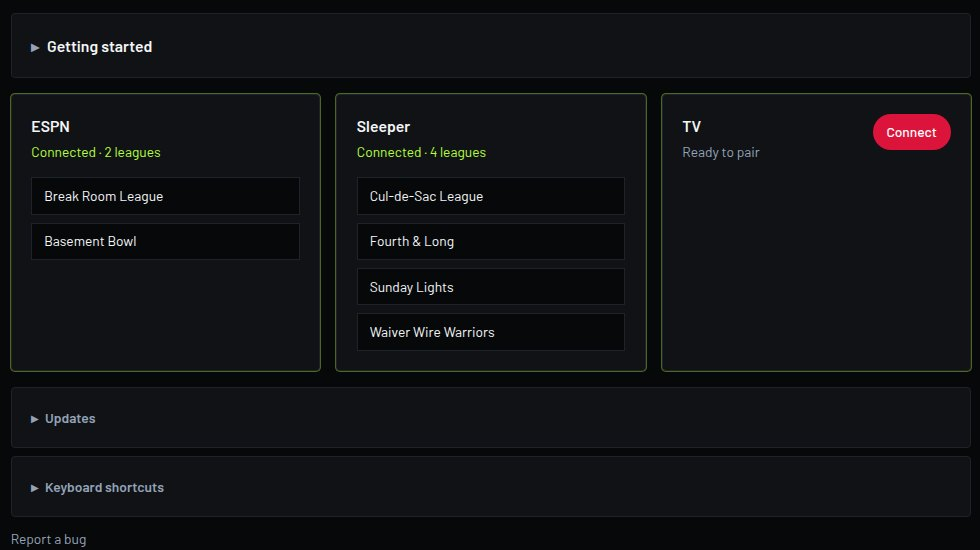
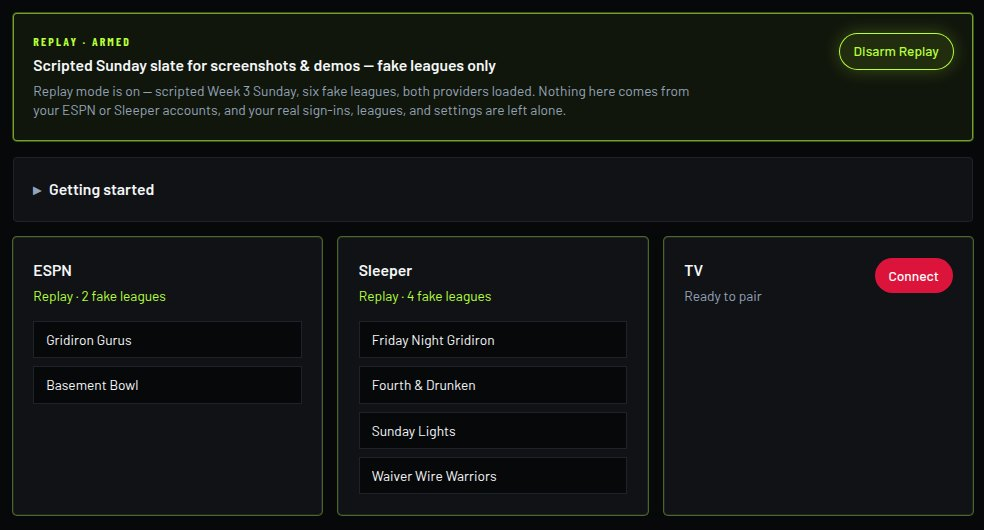
site: re-shoot stills from the pinned Replay frame; demo.ts mirrors it
B/D/E re-captured from Sunday-real Replay (1440x900), C is the frost HUD on
the living-room TV plate, hero A is the dual-surface composite at the same
98.4-91.2 moment. stills.ts uses the spec §2 alts. site/lib/demo.ts carries
HERO_HUD, YOU_STARTERS, THEM_STARTERS, and COMPANION_LEAGUES for the pinned
frame, with a drift test against the Electron fixture. Copy says Replay /
Arm Replay to match Connect.

diff --git a/site/lib/stills.ts b/site/lib/stills.ts
@@ -1,8 +1,11 @@
+import { HERO_HUD } from "@/lib/demo";
+
 /**
- * Product stills. Every screen is a real capture from Demo Sunday
- * (`npm run replay:capture`): fake leagues, fake managers, real NFL player names.
- * The two living-room shots composite those captures onto generated, people-free
- * rooms (scripts/marketing/compose.py). Capture checklist: docs/marketing/stills.md.
+ * Product stills (Designer spec MARKETING_REPLAY_SPEC §2). Every screen is a real
+ * capture of the pinned Replay Sunday (`npm run replay:capture`): fake leagues,
+ * fake managers, real NFL player names. The two living-room shots composite those
+ * captures onto generated, people-free rooms (scripts/marketing/compose.py).
+ * Capture checklist: docs/marketing/stills.md.
  */
 export type ProductStill = {
   src: string;
@@ -12,51 +15,52 @@ export type ProductStill = {
   caption?: string;
 };
 
-const DEMO_CAPTION = "Demo Sunday data · fake leagues";
+const { you, them } = HERO_HUD;
+const REPLAY_CAPTION = "Replay · fake leagues";
 const STAGED_CAPTION = "Real HUD and board captures · staged room · fake leagues";
 
 export const PRODUCT_STILLS = {
   hero: {
     src: "/images/hero-living-room.jpg",
-    alt: "Game-day living room: the Sideline frost HUD on the TV over the broadcast, and the companion Scoreboard on a laptop on the coffee table — Ice Box 86.6, Hash Marks 85.1.",
+    alt: `Sunday living room: frost HUD on the TV over the game and the companion Scoreboard on a laptop — ${you.team} ${you.score}, ${them.team} ${them.score}.`,
     width: 1600,
     height: 900,
     caption: STAGED_CAPTION,
   },
   companion: {
     src: "/images/companion-board.jpg",
-    alt: "Sideline Scoreboard: Ice Box 80.2 vs Hash Marks 82.2 with Est. win% 55–45, both starting lineups with points, a My leagues rail for six leagues, a scoring tape, and the NFL ticker.",
-    width: 1600,
+    alt: "Sideline Scoreboard in Replay: Ice Box vs Hash Marks, starters, scoring tape, and league watchlist.",
+    width: 1440,
     height: 900,
-    caption: DEMO_CAPTION,
+    caption: REPLAY_CAPTION,
   },
   leagues: {
     src: "/images/leagues-board.jpg",
-    alt: "Sideline Leagues view: six Sleeper and ESPN matchups with live scores, lead bars, and top scorers, next to an all-leagues scoring tape.",
-    width: 1600,
+    alt: "Sideline Leagues in Replay: six Sleeper and ESPN matchups with live scores, lead bars, and top scorers beside the all-leagues scoring tape.",
+    width: 1440,
     height: 900,
-    caption: DEMO_CAPTION,
+    caption: REPLAY_CAPTION,
   },
   overlay: {
     src: "/images/frost-hud.jpg",
-    alt: "Frost HUD on a living-room TV during a game: Ice Box 86.6 and starters on the left rail, Hash Marks 85.1 on the right, empty center, lime bias light behind the set.",
+    alt: "Frost HUD over a Sunday living-room TV — Ice Box and Hash Marks on the sidelines.",
     width: 1600,
     height: 900,
     caption: "Real HUD capture · staged room · fake leagues",
   },
   studio: {
     src: "/images/overlay-studio.jpg",
-    alt: "Overlay Studio open beside the Scoreboard: five placement presets, a live HUD preview, and position and size sliders.",
-    width: 1600,
+    alt: "Overlay Studio with five placements and a live HUD preview over game footage.",
+    width: 1440,
     height: 900,
-    caption: DEMO_CAPTION,
+    caption: REPLAY_CAPTION,
   },
   connect: {
     src: "/images/connect-hub.jpg",
-    alt: "Connect hub: ESPN connected with two leagues, Sleeper connected with four, and a TV card ready to pair.",
-    width: 980,
-    height: 550,
-    caption: DEMO_CAPTION,
+    alt: "Connect hub: ESPN, Sleeper, and TV peer cards with Replay armed.",
+    width: 984,
+    height: 530,
+    caption: REPLAY_CAPTION,
   },
 } as const satisfies Record<string, ProductStill>;
 

diff --git a/site/lib/demo.ts b/site/lib/demo.ts
@@ -1,0 +1,67 @@
+/**
+ * The pinned Replay Sunday every product still shows (Designer spec
+ * MARKETING_REPLAY_SPEC §1). Mirrors the Electron fixture in
+ * src/main/providers/replayWorld.ts — src/main/siteDemo.test.ts fails if they drift.
+ */
+export type DemoStarter = {
+  pos: string;
+  name: string;
+  nfl: string;
+  pts: string;
+};
+
+export type DemoLeague = {
+  name: string;
+  provider: "sleeper" | "espn";
+  you: string;
+  them: string;
+};
+
+export const DEMO_WEEK = 3;
+
+export const HERO_HUD = {
+  league: "Friday Night Gridiron",
+  you: { team: "Ice Box", manager: "Maya", record: "2-0", score: "98.4", winPct: 62 },
+  them: { team: "Hash Marks", manager: "Owen", record: "1-1", score: "91.2", winPct: 38 },
+} as const;
+
+export const YOU_STARTERS: DemoStarter[] = [
+  { pos: "QB", name: "Fields", nfl: "PIT", pts: "18.4" },
+  { pos: "RB", name: "Gibbs", nfl: "DET", pts: "16.2" },
+  { pos: "RB", name: "Montgomery", nfl: "DET", pts: "9.1" },
+  { pos: "WR", name: "St. Brown", nfl: "DET", pts: "14.6" },
+  { pos: "WR", name: "Hill", nfl: "MIA", pts: "8.3" },
+  { pos: "TE", name: "Kelce", nfl: "KC", pts: "7.4" },
+  { pos: "FLEX", name: "Collins", nfl: "HOU", pts: "11.8" },
+  { pos: "K", name: "Aubrey", nfl: "DAL", pts: "6.0" },
+  { pos: "DEF", name: "Steelers", nfl: "PIT", pts: "6.6" },
+];
+
+export const THEM_STARTERS: DemoStarter[] = [
+  { pos: "QB", name: "Allen", nfl: "BUF", pts: "21.1" },
+  { pos: "RB", name: "Barkley", nfl: "PHI", pts: "15.4" },
+  { pos: "RB", name: "Conner", nfl: "ARI", pts: "5.8" },
+  { pos: "WR", name: "Brown", nfl: "PHI", pts: "14.2" },
+  { pos: "WR", name: "London", nfl: "ATL", pts: "6.9" },
+  { pos: "TE", name: "Kittle", nfl: "SF", pts: "4.2" },
+  { pos: "FLEX", name: "Waddle", nfl: "MIA", pts: "8.1" },
+  { pos: "K", name: "Bass", nfl: "BUF", pts: "5.0" },
+  { pos: "DEF", name: "Ravens", nfl: "BAL", pts: "10.5" },
+];
+
+export const COMPANION_LEAGUES: DemoLeague[] = [
+  { name: "Friday Night Gridiron", provider: "sleeper", you: "98.4", them: "91.2" },
+  { name: "Fourth & Drunken", provider: "sleeper", you: "84.1", them: "102.6" },
+  { name: "Sunday Lights", provider: "sleeper", you: "71.0", them: "68.4" },
+  { name: "Waiver Wire Warriors", provider: "sleeper", you: "55.2", them: "49.8" },
+  { name: "Gridiron Gurus", provider: "espn", you: "112.3", them: "88.0" },
+  { name: "Basement Bowl", provider: "espn", you: "40.1", them: "61.7" },
+];
+
+export const SHORTCUTS = [
+  { action: "Toggle HUD", keys: "Ctrl + Shift + O" },
+  { action: "Cycle HUD display", keys: "Ctrl + Shift + M" },
+  { action: "Edit HUD on the overlay", keys: "Ctrl + Shift + E" },
+  { action: "Next league", keys: "]" },
+  { action: "Previous league", keys: "[" },
+] as const;

diff --git a/site/app/docs/page.tsx b/site/app/docs/page.tsx
@@ -3,7 +3,7 @@ import { SiteFooter } from "@/components/site-footer";
 import { SiteNav } from "@/components/site-nav";
 import { Kbd } from "@/components/ui";
 import { DOWNLOAD_URL } from "@/lib/constants";
-import { SHORTCUTS } from "@/lib/shortcuts";
+import { SHORTCUTS } from "@/lib/demo";
 
 export const metadata: Metadata = {
   title: "Connect & shortcuts",
@@ -69,15 +69,16 @@ export default function DocsPage() {
         </section>
 
         <section className="mt-12">
-          <h2 className="font-cond text-2xl font-bold uppercase tracking-[0.08em]">Demo Sunday</h2>
+          <h2 className="font-cond text-2xl font-bold uppercase tracking-[0.08em]">Replay</h2>
           <p className="mt-3 text-sm leading-relaxed text-muted">
-            Want to see Sideline on a Sunday before you connect anything? Open Connect and press{" "}
-            <strong className="font-medium text-text">Start demo</strong>. Sideline restarts into a
-            scripted Week 3 slate: six fake Sleeper and ESPN leagues, live-looking scores, a moving
-            scoring tape, and the HUD. A <strong className="font-medium text-text">Demo Sunday</strong>{" "}
-            chip sits in the top bar the whole time. Your sign-ins, leagues, and settings are not
-            touched — press <strong className="font-medium text-text">Exit demo</strong> on Connect to
-            restart back into your real leagues.
+            Want to see Sideline on a Sunday before you connect anything, or grab screenshots? Open
+            Connect and press <strong className="font-medium text-text">Arm Replay</strong>. Sideline
+            restarts into a scripted Week 3 slate: six fake Sleeper and ESPN leagues, live-looking
+            scores, a moving scoring tape, and the HUD. A small{" "}
+            <strong className="font-medium text-text">Replay</strong> chip sits in the top bar while it
+            is armed. Your sign-ins, leagues, and settings are not touched — press{" "}
+            <strong className="font-medium text-text">Disarm Replay</strong> on Connect to restart into
+            your real leagues.
           </p>
         </section>
 

diff --git a/src/main/siteDemo.test.ts b/src/main/siteDemo.test.ts
@@ -1,0 +1,38 @@
+import { describe, expect, it } from 'vitest'
+import { leagueKey } from '@shared/types'
+import { matchupChanceToWin } from '@shared/display'
+import { formatScore, overlayName } from '../renderer/shared/format'
+import { COMPANION_LEAGUES, DEMO_WEEK, HERO_HUD, THEM_STARTERS, YOU_STARTERS } from '../../site/lib/demo'
+import { FEATURED_LEAGUE_KEY, REPLAY_WEEK, replayMatchupFor, replayWorldLeagues } from './providers/replayWorld'
+
+describe('site demo constants match the pinned Replay frame', () => {
+  const leagues = replayWorldLeagues(REPLAY_WEEK)
+  const featured = leagues.find((row) => leagueKey(row.provider, row.id) === FEATURED_LEAGUE_KEY)!
+  const matchup = replayMatchupFor(featured, 0)!
+
+  it('agrees on the featured matchup, score, and win%', () => {
+    expect(DEMO_WEEK).toBe(REPLAY_WEEK)
+    expect(HERO_HUD.league).toBe(featured.name)
+    expect(HERO_HUD.you).toMatchObject({ team: matchup.myTeam.name, manager: matchup.myTeam.owner, record: matchup.myTeam.record })
+    expect(HERO_HUD.them).toMatchObject({ team: matchup.oppTeam?.name, manager: matchup.oppTeam?.owner, record: matchup.oppTeam?.record })
+    expect(HERO_HUD.you.score).toBe(formatScore(matchup.myPoints))
+    expect(HERO_HUD.them.score).toBe(formatScore(matchup.oppPoints))
+    expect(HERO_HUD.you.winPct).toBe(Math.round(matchupChanceToWin(matchup)!.mine * 100))
+  })
+
+  it('agrees on both starting lineups', () => {
+    const rows = (players: typeof matchup.starters) =>
+      players.map((row) => ({ pos: row.position, name: overlayName(row.name), nfl: row.nflTeam, pts: formatScore(row.points ?? 0) }))
+    expect(YOU_STARTERS).toEqual(rows(matchup.starters))
+    expect(THEM_STARTERS).toEqual(rows(matchup.oppStarters))
+  })
+
+  it('agrees on the six MY LEAGUES rows', () => {
+    expect(COMPANION_LEAGUES).toEqual(
+      leagues.map((league) => {
+        const row = replayMatchupFor(league, 0)!
+        return { name: league.name, provider: league.provider, you: formatScore(row.myPoints), them: formatScore(row.oppPoints) }
+      })
+    )
+  })
+})

diff --git a/site/components/sections/connect.tsx b/site/components/sections/connect.tsx
@@ -44,14 +44,15 @@ export function ConnectSection() {
             sizes="(min-width: 1152px) 640px, 100vw"
           />
           <div>
-            <p className="font-cond text-[11px] font-bold uppercase tracking-[0.18em] text-lime">Demo Sunday</p>
+            <p className="font-cond text-[11px] font-bold uppercase tracking-[0.18em] text-lime">Replay</p>
             <h3 className="mt-2 font-cond text-2xl font-bold uppercase tracking-[0.06em]">
-              Try it before you connect
+              A scripted Sunday, on demand
             </h3>
             <p className="mt-3 text-sm leading-relaxed text-muted">
-              Connect has a <strong className="font-medium text-text">Start demo</strong> button. Sideline
-              restarts into a scripted Week 3 slate with six fake leagues — live-looking scores, tape,
-              and the HUD — without touching your accounts. Exit the demo from the same place.
+              Connect has a <strong className="font-medium text-text">Replay</strong> block. Arm it and
+              Sideline restarts into a scripted Week 3 slate — six fake leagues, a moving scoring tape,
+              and the HUD — for screenshots, demos, or a Tuesday night. Your accounts stay untouched;
+              disarm from the same place.
             </p>
           </div>
         </div>

diff --git a/docs/marketing/stills.md b/docs/marketing/stills.md
@@ -1,62 +1,72 @@
 # Marketing stills
 
-Every product screen on the site is a real capture from **Demo Sunday**, the scripted
-Week 3 slate (six fake Sleeper and ESPN leagues, real NFL player names). Never capture
+Source of truth: Designer's Sunday-real spec (`MARKETING_REPLAY_SPEC`, 2026-09-23). Every
+product screen on the site is a real capture of the **pinned Replay frame**. Never capture
 live leagues for the public site, and never put a real person in a still.
 
-| File in `site/public/images/` | What it shows | How it is made |
-| --- | --- | --- |
-| `companion-board.jpg` | Scoreboard, Cul-de-Sac League, Ice Box vs Hash Marks | Window capture, 1600×900 |
-| `leagues-board.jpg` | Leagues grid, six boards, all-leagues tape | Window capture, 1600×900 |
-| `overlay-studio.jpg` | Scoreboard with Overlay Studio open | Window capture, 1600×900 |
-| `connect-hub.jpg` | Connect hub cards (ESPN, Sleeper, TV) | Window capture, cropped to the hub, 980×550 |
-| `frost-hud.jpg` | Frost HUD on a living-room TV | `hud-shot.mjs` + `compose.py frost` |
-| `hero-living-room.jpg` | HUD on the TV + Scoreboard on a laptop | `hud-shot.mjs` + board capture + `compose.py hero` |
+Pinned frame (tick 0, `src/main/providers/replayWorld.ts`, mirrored in `site/lib/demo.ts`;
+`src/main/siteDemo.test.ts` fails if they drift):
 
-Alt text and captions live in `site/lib/stills.ts`. Update the alt text whenever a
-still's scores or teams change.
+- Friday Night Gridiron (Sleeper), Week 3: Maya's **Ice Box 98.4** vs Owen's **Hash Marks 91.2**,
+  Est. win% **62 / 38**.
+- MY LEAGUES: Fourth & Drunken 84.1–102.6 · Sunday Lights 71.0–68.4 · Waiver Wire Warriors
+  55.2–49.8 · Gridiron Gurus (ESPN) 112.3–88.0 · Basement Bowl (ESPN) 40.1–61.7.
+- Tape (THIS MATCHUP): Gibbs TD · Hill FUM · Allen PASS TD · St. Brown REC · Dowdle INJ ·
+  Ravens INT · Fields RUSH.
+- Ticker leads with DET–KC 3RD, DAL–NYG FINAL, BUF–MIA 2ND, PHI–ATL 1ST, PIT–LAC HALFTIME.
 
-The two living-room backdrops (`scripts/marketing/backdrops/`) are generated rooms with
-no people in them. Only the screens are replaced, and only with real captures.
+| Slot | File in `site/public/images/` | What it shows | How it is made |
+| --- | --- | --- | --- |
+| A hero | `hero-living-room.jpg` | HUD on the TV + Scoreboard on a laptop | `hud-shot.mjs` + board capture + `compose.py hero` |
+| B | `companion-board.jpg` | Scoreboard, Hash Marks bench popover open | Window capture, 1440×900 |
+| — | `leagues-board.jpg` | Leagues grid, six boards, all-leagues tape | Window capture, 1440×900 |
+| C | `frost-hud.jpg` | Frost HUD (preset 1, far sides) on a living-room TV | `hud-shot.mjs` + `compose.py frost` |
+| D | `overlay-studio.jpg` | Scoreboard with Overlay Studio, preview over the game plate | Window capture, 1440×900 |
+| E | `connect-hub.jpg` | Replay armed block + ESPN / Sleeper / TV cards | Window capture, cropped to the hub |
+
+Alt text and captions live in `site/lib/stills.ts` (spec §2 wording).
+
+The two living-room backdrops (`scripts/marketing/backdrops/`) are generated rooms with no
+people in them. Only the screens are replaced, and only with real captures. The Studio
+preview plate (`src/renderer/assets/studio-plate.jpg`) is cropped from the same TV backdrop and
+ships in the app, so still D shows what the product actually renders.
 
 ## Capture checklist
 
-1. `npm install`, then `npm run replay:capture`. This is Demo Sunday with the Demo chip and
-   the Connect demo banner hidden, so the stills carry no demo chrome.
-2. Size the companion window to **1600×900** (Windows: PowerToys FancyZones or a window
-   sizer; Linux: `xdotool search --name Sideline windowsize 1600 900`).
-3. **Scoreboard** — about 30–45 seconds after launch the opening script has played out:
-   Ice Box and Hash Marks are within a few points, Est. win% sits near 55–45, Drake London
-   shows OUT, and the tape is full. Capture the window → `companion-board.jpg`.
+1. `npm install`, then `npm run replay:capture`. Replay is armed and **held** on the pinned frame
+   (`SIDELINE_REPLAY_HOLD=1`), so every still shows the same Sunday. The small REPLAY chip and
+   caption stay visible on purpose (spec §4).
+2. Size the companion window to **1440×900** (Windows: PowerToys FancyZones or a window sizer;
+   Linux: `xdotool search --name Sideline windowsize 1440 900`).
+3. **B** — Scoreboard. Open the **Hash Marks** bench (right foot) so Ice Box's lineup stays
+   visible and one foot shows a bench list. Capture → `companion-board.jpg`.
 4. **Leagues** — click Leagues and capture → `leagues-board.jpg`.
-5. **Connect** — click Connect and capture, then crop to the hub cards (Getting started
-   through Report a bug) → `connect-hub.jpg`.
-6. **Studio** — back on Scoreboard, turn on HUD, press **Edit layout**. Move the overlay to
-   another display, or capture only the companion window, so the rails do not cover it →
-   `overlay-studio.jpg`.
-7. **HUD renders** — with the app still running, in a second terminal:
+5. **E** — click Connect and capture, then crop from the Replay block through the provider
+   cards → `connect-hub.jpg`.
+6. **D** — Scoreboard, turn on HUD, press **Edit layout**. Move the overlay to another display
+   (or capture only the companion window) so the rails don't cover it → `overlay-studio.jpg`.
+7. **HUD render** — with the app still running, in a second terminal:
 
    ```bash
-   node scripts/marketing/hud-shot.mjs hud-tv.png          # TV surface (Google TV look)
+   node scripts/marketing/hud-shot.mjs hud.png http://127.0.0.1:7333/overlay
    ```
 
-   Capture a fresh Scoreboard window **in the same moment** as `board.png`, so the laptop
-   and TV in the hero agree on the score.
-8. **Composite** (Python 3 with Pillow and NumPy):
+   Use the desktop surface (regular density); the TV surface truncates ST. BROWN.
+   Capture the Scoreboard with benches closed as `board.png` for the hero laptop.
+8. **Composite C and A** (Python 3 with Pillow and NumPy):
 
    ```bash
-   python3 scripts/marketing/compose.py frost --hud hud-tv.png
-   python3 scripts/marketing/compose.py hero --hud hud-tv.png --board board.png
+   python3 scripts/marketing/compose.py frost --hud hud.png
+   python3 scripts/marketing/compose.py hero --hud hud.png --board board.png
    ```
 
-9. Update alt text in `site/lib/stills.ts`, then `cd site && npm run lint && npm run build`.
+9. Update alt text in `site/lib/stills.ts` if anything changed, then
+   `cd site && npm run lint && npm run build`.
 
-## Demo Sunday timeline (3s per tick)
+## After the pinned frame (`npm run replay`, 3s per tick)
 
-- 0:00 — opening scores (Ice Box 67.1, Hash Marks 83.2). Thursday night is final, the
-  1:00 window is in the 3rd/4th quarter, and LAR @ PHI is at halftime.
-- 0:00–1:15 — scripted opening: Bijan Robinson rushing TD, Ja'Marr Chase fumble, Drake
-  London hurt, Daniels to McLaurin, and more across both featured boards.
-- 1:30 — halftime ends in Philadelphia.
-- ~15:00 — the 1:00 window goes final; 4:05/4:25 games kick off right after.
-- Scores stay bounded (team totals finish around 90–140). Relaunch the demo to replay.
+- 0:00–1:00 — scripted opening: Gibbs and Allen tick first, then TDs by A.J. Brown and
+  St. Brown swing the featured board.
+- 1:30 — halftime ends in PIT–LAC.
+- ~15:00 — DET–KC and ARI–SEA go final; the 4:05 and 4:25 games kick off from ~16:00.
+- Scores stay bounded; relaunch to replay from the pinned frame.

diff --git a/README.md b/README.md
@@ -21,18 +21,18 @@ npm install
 npm start
 ```
 
-### Demo Sunday
+### Replay
 
-Preseason, no live games, or just want to show someone? **Connect → Start demo** restarts Sideline into Demo Sunday: a scripted Week 3 slate with six fake leagues (Ice Box vs Hash Marks on Sleeper, Two-Minute Drill vs Monday Morning QBs on ESPN, plus four more), full benches, a moving scoring tape, injuries and waivers, and the NFL ticker. Scores open mid-slate (~45–90) and play out toward realistic finals; the 1:00 window goes final and the late window kicks off as it runs. A **Demo Sunday** chip stays in the top bar; **Exit demo** on Connect restarts into your real leagues.
+Preseason, no live games, or need screenshots? **Connect → Arm Replay** restarts Sideline into a scripted Week 3 Sunday with six fake friend-group leagues. The pinned frame is Friday Night Gridiron: Maya's Ice Box 98.4 vs Owen's Hash Marks 91.2, Est. win% 62/38. Four Sleeper and two ESPN boards, short benches, a moving scoring tape with an injury, a waiver, and a trade, plus the NFL ticker. From there the slate plays out: halftime ends, early games go final, and the late window kicks off. A small **Replay** chip sits in the top bar while it's armed; **Disarm Replay** on Connect restarts into your real leagues.
 
-From a dev checkout:
+From a dev checkout (power-user escape hatch):
 
 ```bash
-npm run replay           # Demo Sunday with demo labels
-npm run replay:capture   # same data, no demo chrome — for marketing stills (docs/marketing/stills.md)
+npm run replay           # SIDELINE_REPLAY=1: Replay armed, plays out from the pinned frame
+npm run replay:capture   # also SIDELINE_REPLAY_HOLD=1: holds the pinned frame for marketing stills
 ```
 
-The demo is fixture-only. It never calls a sports-data API, never touches ESPN cookies or your Sleeper username (sign-in, sign-out, and league edits are refused while it runs), and its slug league ids are stripped from settings on the next live launch.
+Replay is fixture-only. It never calls a sports-data API, never touches ESPN cookies or your Sleeper username (sign-in, sign-out, and league edits are refused while it's armed), and its slug league ids are stripped from settings on the next live launch.
 
 ## Connect
 
